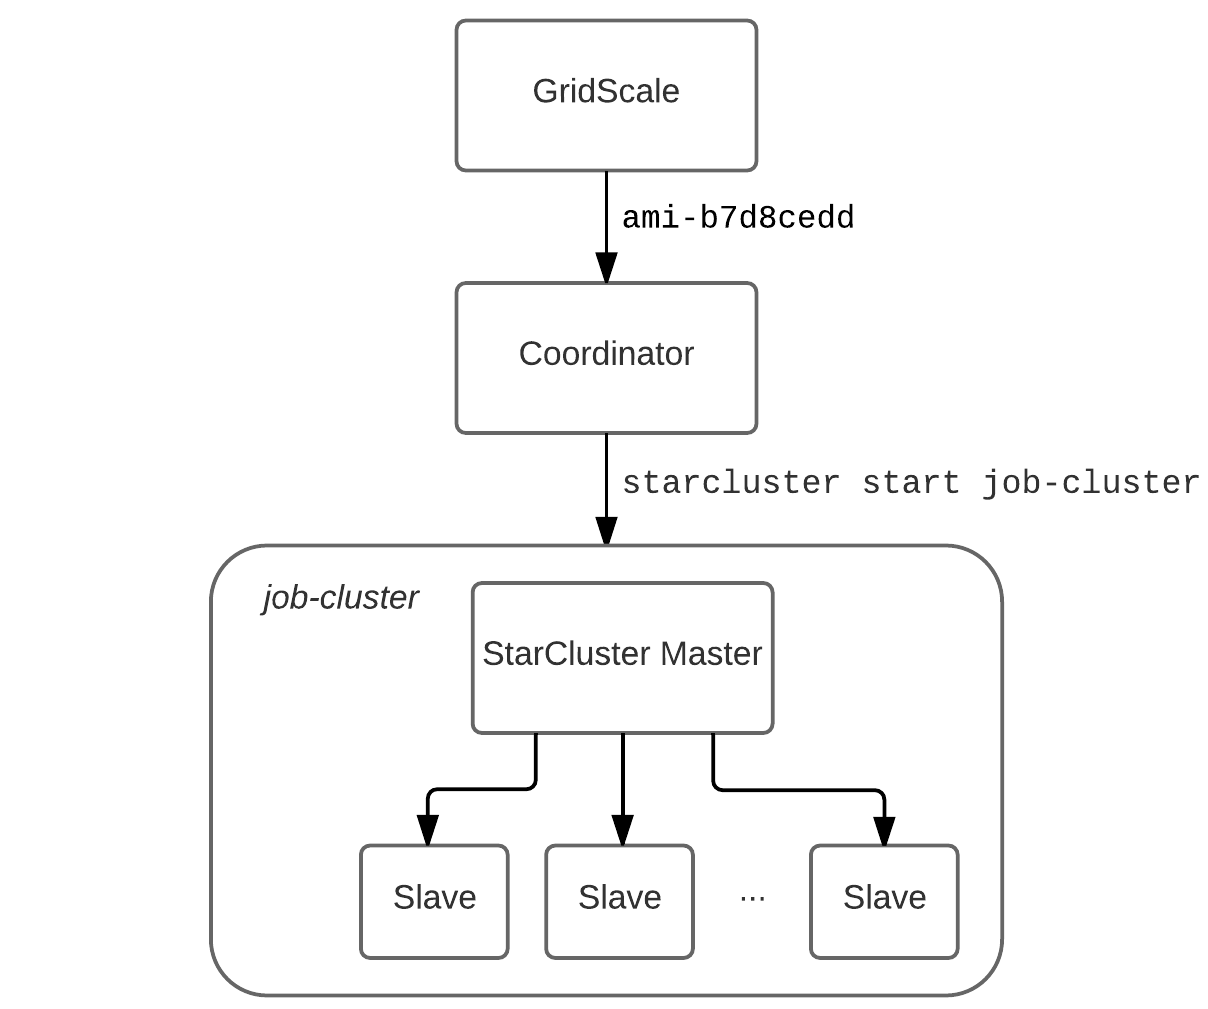
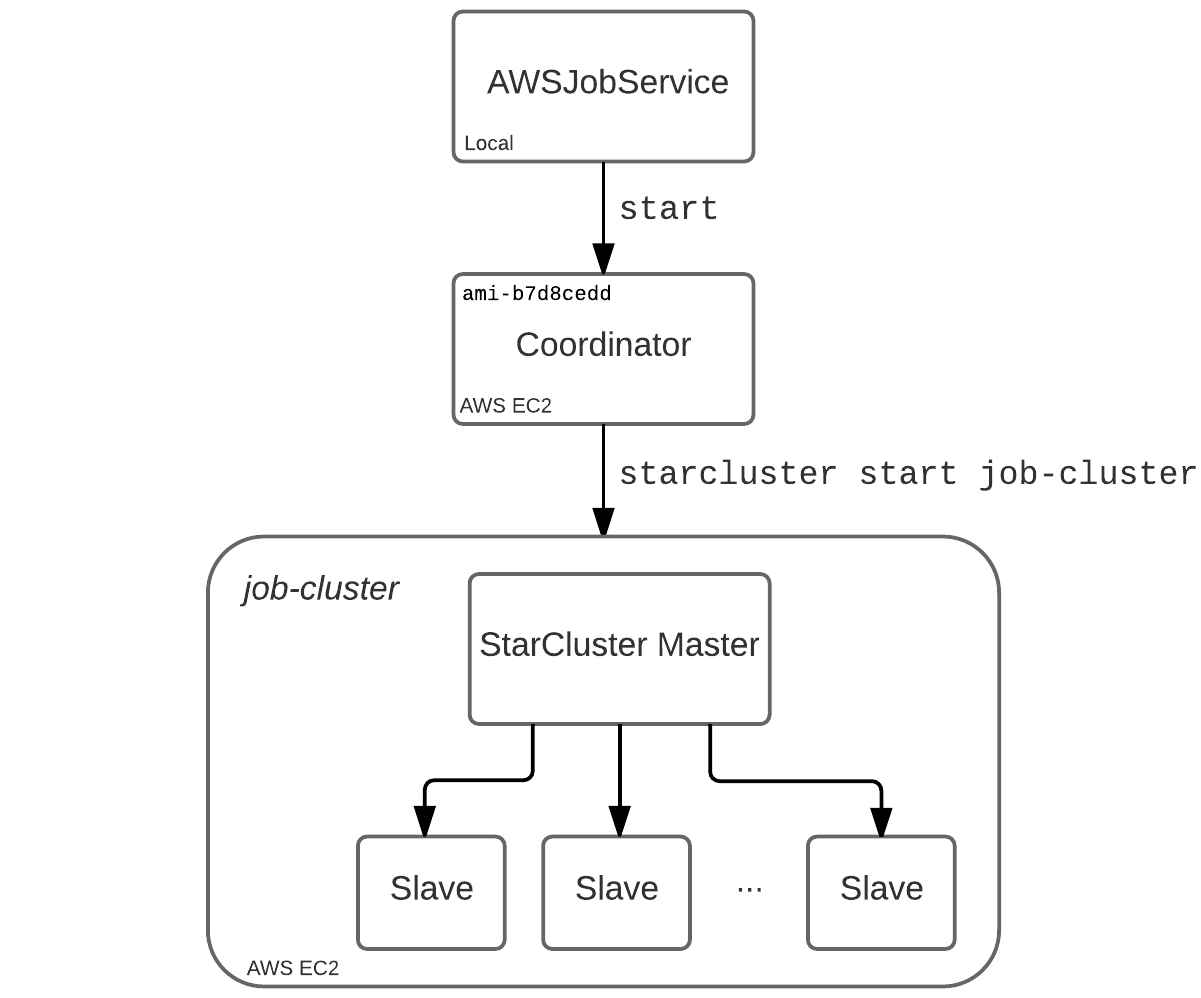
Finishing the coordinator node description.

diff --git a/tex/implementation.tex b/tex/implementation.tex
@@ -28,6 +28,51 @@ As long as we can deploy a cluster with a filesystem shared across the network, 
 
 Authentication is indeed based on the AWS credentials stored locally by the user and requires a new model. However, the standard authentication implementation relying on SSH keys can still be reused as a lower layer of this new implementation in order to access the master node that controls the job submission queue.
 
+External applications make use of the AWS module by instantiating an \verb|AWSJobService|, which publicly exposes the following methods:
+
+\begin{itemize}
+	\item \verb|start| launches and configures a job submission cluster to be used by the service.
+	\item \verb|close| completely tears down the job cluster.
+	\item \verb|submit|, \verb|cancel|, \verb|state| and \verb|purge| fulfil their regular functions within the service.
+\end{itemize}
+
+Listing \ref{AWSJobService} shows an example usage of the service. The service takes as parameters the region the job should run in, as well as the number of EC2 instances that the service should create under the \verb|clusterSize| parameter. The other authentication-related parameters are discussed in \ref{CoordinatorNodeSection} and \ref{StarClusterConfigurationSection}.
+
+\begin{listing}[h]
+	\centering
+	\begin{minipage}{11.8cm}
+		\begin{minted}[frame=single,framesep=2mm,baselinestretch=1.11,fontsize=\small,linenos]{scala}
+val awsService = AWSJobService(AWSJobService.Config(
+    region = "eu-west-1",
+    awsUserName = "adrian",
+    awsCredentialsPath = "/Users/adrian/.aws/credentials.csv",
+    awsUserId = "434676269080",
+    awsKeypairName = "gridscale",
+    privateKeyPath = "/Users/adrian/.ssh/id_rsa",
+    clusterSize = 1))
+
+awsService.start()
+
+val description = new AWSJobDescription {
+  def executable = "/bin/sleep"
+  def arguments = "5"
+  def workDirectory = aws.home
+}
+
+val job = awsService.submit(description)
+while (awsService.state(job) != Done) {
+  Thread.sleep(WAIT_TIME)
+}
+
+awsService.purge(job)
+awsService.close()
+		\end{minted}
+	\end{minipage}
+	\caption{Submitting a job to the cloud using the AWS module.}
+	\label{AWSJobService}
+\end{listing}
+
+\vspace{-5mm}
 \subsection{Cluster Deployment}
 
 The design of the module presented above outlines the requirement for a system that can create clusters of AWS EC2 machines and configure them with a job scheduler and a shared filesystem across all nodes.
@@ -36,31 +81,34 @@ The design of the module presented above outlines the requirement for a system t
 
 During the investigations in Section \ref{ClusterDeployment}, we found that most cost-efficient tools and frameworks for creating the cluster are StarCluster, Elasticluster and Jclouds. The main reason for excluding Mesosphere DC/OS was that it is generally heavyweight and requires running more expensive machines to power the cluster. CfnCluster was dismissed for being to reliant on the AWS software stack, which incurs various extra costs for operations that can easily be performed without Amazon resources.
 
-Jclouds allows mounting various cloud storage devices, but it does not fit our use case since it does not have built-in support for NFS installations. Although Elasticluster can perform all the required tasks, we opted for StarCluster as the cloud deployment tool, since it also provides a load balancer that can be used to optimize the cost or run time of a workflow.
+Jclouds allows mounting various cloud storage devices, but it did not fit our use case since it does not have built-in support for NFS installations. Although Elasticluster can perform all the required tasks, we opted for StarCluster as the cloud deployment tool, since it also provides a load balancer that can be used to optimize the cost or run time of a workflow.
 
-\subsubsection{Coordinator Node}
+\subsubsection{Coordinator Node} \label{CoordinatorNodeSection}
 
-The choice for StarCluster raises the problem that it is only offered as a command line tool and it needs to be on the machine it is run on. Although most cluster orchestration tools require manual installation and interaction, requiring the user of the library to install an external is both unreasonable and impractical from GridScale's perspective. 
+The choice for StarCluster raises the problem that it is only offered as a command line tool and it needs to be on the machine it is run on. Although most cluster orchestration tools require manual installation and interaction, forcing the user of the library to install an external is both unreasonable and impractical from GridScale's perspective. 
 
-An idea would be running a Docker container with StarCluster, but we can, once again, not assume that a Docker engine is present on the user's machine.
+An initial idea could have been running a Docker container with StarCluster, but we can, once again, not assume the presence of a Docker engine on the user's machine.
 
 The solution we picked was to simply create an EC2 instance with StarCluster already installed. We call this particular instance the cluster \textit{coordinator} or \textit{orchestrator}, since it controls the whole cluster activity by executing the StarCluster commands to operate it. 
 
-The coordinator is launched using Jclouds from the GridScale version running on the local machine. Its configuration and storage setup are based on a AMI prebuilt with an installation of StarCluster and maintained by the developers of GridScale. After the coordinator is in a running and its public IP address has been established, GridScale can start sending it commands to be executed via an SSH channel. An example instruction is the one to start a new cluster with a given name. Figure \ref{CoordinatorSetup} illustrates this whole process.
+The coordinator is launched using Jclouds within the \verb|start| method of the \verb|AWSJobService| created on the local machine. Its configuration is based on a prebuilt AMI with an installation of StarCluster and maintained by the developers of GridScale. After the coordinator is in a running state and its public IP address has been established, the \verb|AWSJobService| can start sending commands to it via an SSH channel. More specifically, it can emit the instruction to start a new cluster with the given name. Figure \ref{CoordinatorSetup} illustrates this whole process.
 
 \begin{figure}[h]
 	\centering
-		\includegraphics[width=0.9\linewidth]{CoordinatorSetup.png}
+		\includegraphics[width=0.87\linewidth]{CoordinatorSetup.png}
 	\caption{Creating a new cluster using a proxy coordinator node and StarCluster.}
 	\label{CoordinatorSetup}
 \end{figure}
 
+In order to start the coordinator node, Jclouds needs to authenticate the user. Although Amazon encourages using IAM\footnote{Identity Access Management} roles for authentication, Jclouds requires the master access key ID and secret key corresponding to the account. These are stored in the file pointed to by the \verb|awsCredentialsPath| parameter and can be downloaded by the user from the Security Credentials page in the AWS Console \cite{AWSCredentials}.
 
-\todo[inline]{Talk about authentication with aws credentials}
+Although it might seem that introducing a proxy node for passing StarCluster commands is inefficient, the actual overhead is minimal. The reason for the limited impact is that StarCluster is only explicitly invoked during the initialisation and destruction of the cluster. All job scheduling interactions with the job submission controller bypass the coordinator, since the job service can obtain the address of the master node and send it jobs directly.
+
+\subsubsection{StarCluster Configuration} \label{StarClusterConfigurationSection}
 
 \subsection{SGE Delegation}
 
-\subsection{•}
+\subsection{Resource Mapper}
 
 \subsection{GCE Version}
 

diff --git a/tex/design.tex b/tex/design.tex
@@ -68,7 +68,6 @@ Lines 6-10 define the actual model that we want to compute. In this case, the sp
 
 One of the central objectives of OpenMOLE is to allow parameter optimisation for the models it executes. The sampling of parameters is achieved through the use of \textit{explorations} in the language. Every parameter sampled from a set is combined with all the other parameters to generate the workflow input. In our case, the exploration at line 4 only samples parameter \verb|i|, so the model will be replicated 100 times and executed with an integer between 1 and 100 as input.
 
-
 Line 12 instantiates the environment where the workflow will be run. Here we select a \verb|LocalEnvironment| and allow the computation to create and use 8 threads on the local machine. Line 14 ties all the building blocks together. The exploration generates all possible values of \verb|i| and the model is executed on the given environment for each one of them. The \verb|-<| symbol represents a divergent transition between the exploration and the task, each output of the sampling being fed to the model.
 
 In OpenMOLE, \textit{hooks} are used to extract the results of running an experiment. They are executed every time the task that they are assigned to terminates and can perform actions like simply displaying the data or saving it to CSV\footnote{Comma-separated values} files. Here the \verb|ToStringHook| simply prints the output of each task.
